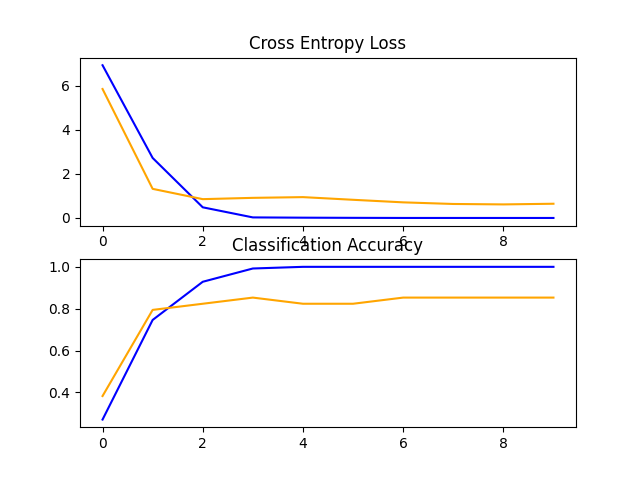
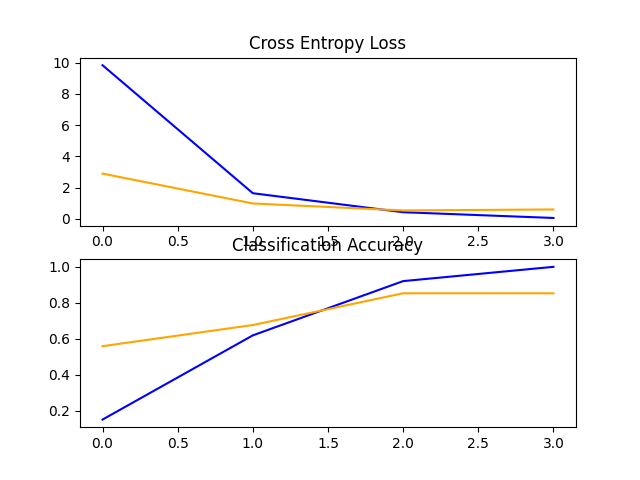
3 block VGG model implemented and trained

diff --git a/model/cnn.py b/model/cnn.py
@@ -12,6 +12,8 @@ def define_model():
     model.add(MaxPooling2D((2, 2)))
     model.add(Conv2D(64, (3, 3), activation='relu', kernel_initializer='he_uniform', padding='same'))
     model.add(MaxPooling2D((2, 2)))
+    model.add(Conv2D(128, (3, 3), activation='relu', kernel_initializer='he_uniform', padding='same'))
+    model.add(MaxPooling2D((2, 2)))
     model.add(Flatten())
     model.add(Dense(128, activation='relu', kernel_initializer='he_uniform'))
     model.add(Dense(8, activation='softmax'))
@@ -43,7 +45,7 @@ def run_test_harness():
     datagen=ImageDataGenerator(rescale=1.0/255.0)
     train_it=datagen.flow_from_directory('dataset/train',class_mode='categorical',batch_size=32,target_size=(200,200))
     test_it=datagen.flow_from_directory('dataset/test',class_mode='categorical',batch_size=32,target_size=(200,200))
-    history=model.fit(train_it,steps_per_epoch=len(train_it), validation_data=test_it,validation_steps=len(test_it),epochs=10)
+    history=model.fit(train_it,steps_per_epoch=len(train_it), validation_data=test_it,validation_steps=len(test_it),epochs=4)
     _,acc=model.evaluate(test_it,steps=len(test_it))
     print('> %.3f' % (acc * 100.0))
     #learning curve
